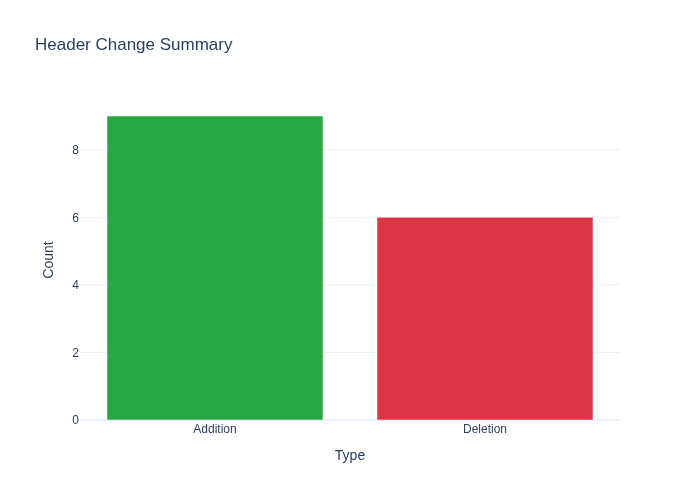
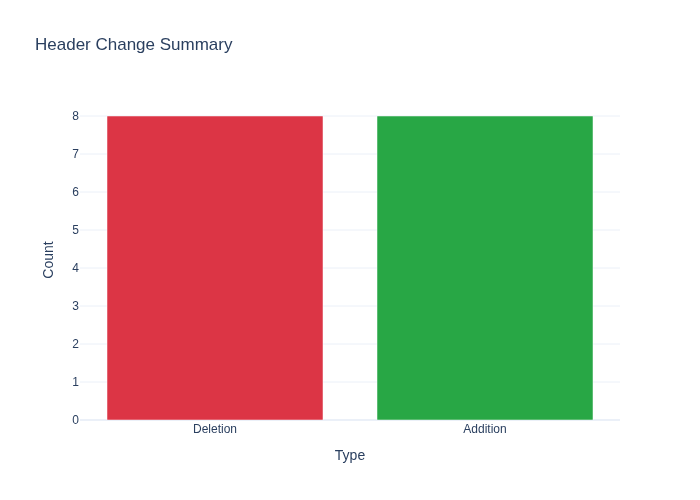
CPI responses and diff on 2025-10-30 11:44:32

diff --git a/results/diff_dashboard.html b/results/diff_dashboard.html
@@ -52,23 +52,40 @@ footer {
 </head>
 <body>
 <h1>📊 CPI Response Comparison Dashboard</h1>
-<h2>🧩 Header Differences</h2><div class='chart'><img src='header_chart.png' width='400'/></div><table><tr><th>Type</th><th>Section</th><th>Details</th></tr><tr class='value'><td>Deletion</td><td>@@ -1,16 +1,19 @@</td><td><pre>HTTP/1.1 404 Not Found</pre></td></tr>
-<tr class='addition'><td>Addition</td><td>@@ -1,16 +1,19 @@</td><td><pre>HTTP/1.1 200 OK</pre></td></tr>
-<tr class='value'><td>Deletion</td><td>@@ -1,16 +1,19 @@</td><td><pre>content-language: en</pre></td></tr>
-<tr class='value'><td>Deletion</td><td>@@ -1,16 +1,19 @@</td><td><pre>content-length: 431</pre></td></tr>
-<tr class='value'><td>Deletion</td><td>@@ -1,16 +1,19 @@</td><td><pre>content-type: text/html;charset=utf-8</pre></td></tr>
-<tr class='addition'><td>Addition</td><td>@@ -1,16 +1,19 @@</td><td><pre>content: JSON</pre></td></tr>
-<tr class='addition'><td>Addition</td><td>@@ -1,16 +1,19 @@</td><td><pre>sap_messageprocessinglogid: AGkDI_mlh7ShiZqvBjMHFFrvdiQl</pre></td></tr>
-<tr class='addition'><td>Addition</td><td>@@ -1,16 +1,19 @@</td><td><pre>sap_mplcorrelationid: AGkDI_lvplauKOzknG59KTm-F6Y9</pre></td></tr>
-<tr class='addition'><td>Addition</td><td>@@ -1,16 +1,19 @@</td><td><pre>sap_pregeneratedmplid: AGkDI_mY9qZmPVLRjRfidjRm3K-8</pre></td></tr>
-<tr class='addition'><td>Addition</td><td>@@ -1,16 +1,19 @@</td><td><pre>testheader: SecondiFlow</pre></td></tr>
-<tr class='value'><td>Deletion</td><td>@@ -1,16 +1,19 @@</td><td><pre>x-correlationid: df11ef11-f20e-45d9-4a5b-b8cf0640f32b</pre></td></tr>
-<tr class='addition'><td>Addition</td><td>@@ -1,16 +1,19 @@</td><td><pre>x-correlationid: f256a1f5-bd8b-4505-5b38-f651398fbccc</pre></td></tr>
-<tr class='value'><td>Deletion</td><td>@@ -1,16 +1,19 @@</td><td><pre>x-vcap-request-id: df11ef11-f20e-45d9-4a5b-b8cf0640f32b</pre></td></tr>
-<tr class='addition'><td>Addition</td><td>@@ -1,16 +1,19 @@</td><td><pre>x-vcap-request-id: f256a1f5-bd8b-4505-5b38-f651398fbccc</pre></td></tr>
-<tr class='addition'><td>Addition</td><td>@@ -1,16 +1,19 @@</td><td><pre>transfer-encoding: chunked</pre></td></tr>
-</table><h2>💾 Body Differences</h2><div class='chart'><img src='body_chart.png' width='400'/></div><table><tr><th>Type</th><th>Section</th><th>Details</th></tr><tr class='value'><td>Deletion</td><td>@@ -1 +1 @@</td><td><pre><!doctype html><html lang="en"><head><title>HTTP Status 404 – Not Found</title><style type="text/css">body {font-family:Tahoma,Arial,sans-serif;} h1, h2, h3, b {color:white;background-color:#525D76;} h1 {font-size:22px;} h2 {font-size:16px;} h3 {font-size:14px;} p {font-size:12px;} a {color:black;} .line {height:1px;background-color:#525D76;border:none;}</style></head><body><h1>HTTP Status 404 – Not Found</h1></body></html></pre></td></tr>
-<tr class='addition'><td>Addition</td><td>@@ -1 +1 @@</td><td><pre>{"ns1:ZSD_BAPI_SALESORDER_SIMULATE":{"C_ORDER_ITEMS_IN":{"item":{"CUSTOM_ITEM_ID":"0a99O000000iezRQAQ","PO_ITM_NO":"30","MATERIAL":"230951","BATCH":"102530","REASON_REJ":"Order is Rejected due to customer being blocked","BILL_DATE":"20251030140817","PLANT":"Santa Monica","STORE_LOC":"Basel, Switzerland","TARGET_QTY":"2000","REQ_QTY":"2000","SALES_UNIT":"IGB","ITEM_CATEG":"Fertilizers","SHORT_TEXT":"Order to be placed once customer is unblocked","REQ_DATE":"2025-10-30"},"item":{"CUSTOM_ITEM_ID":"0a99O000000if13QAA","PO_ITM_NO":"30","MATERIAL":"230952","BATCH":"102530","REASON_REJ":"Order is Rejected due to customer being blocked","BILL_DATE":"20251030140817","PLANT":"Santa Monica","STORE_LOC":"Basel, Switzerland","TARGET_QTY":"3000","REQ_QTY":"3000","SALES_UNIT":"IGB","ITEM_CATEG":"Fertilizers","SHORT_TEXT":"Order to be placed once customer is unblocked","REQ_DATE":"2025-10-30"}},"C_ORDER_PARTNERS":{"item":{"PARTN_ROLE":"AG","PARTN_NUMB":"4717357","COUNTRY":"Poland","POSTL_CODE":"PO:411789","CITY":"Pune(IN)","TELEPHONE":"0124-24356823","LANGU":"EN","ADDR_TYPE":"Commercial"},"item":{"PARTN_ROLE":"TEJ","PARTN_NUMB":"4717357","COUNTRY":"Poland","POSTL_CODE":"PO:411789","CITY":"Pune(IN)","TELEPHONE":"0124-24356823","LANGU":"EN","ADDR_TYPE":"Commercial"}},"I_CUSTOM_HEADER_IN":{"CUSTOM_HEADER_ID":"0a69O000000F3yTQAS"},"I_EXTENSION_IN":{"TAXK1":"1"},"I_ORDER_HEADER_IN":{"DOC_NUMBER":"20251030","DOC_TYPE":"ZDPP","DISTR_CHAN":"02","DIVISION":"02","PURCH_NO":"UK Cart","PMNTTRMS":"0600","CD_TYPE1":"","CD_VALUE1":"0","CD_TYPE2":"ZDR3","CD_VALUE2":"0","CD_CU_ISO2":""}}}</pre></td></tr>
+<h2>🧩 Header Differences</h2><div class='chart'><img src='header_chart.png' width='400'/></div><table><tr><th>Type</th><th>Section</th><th>Details</th></tr><tr class='value'><td>Deletion</td><td>@@ -1,18 +1,18 @@</td><td><pre>content: Text</pre></td></tr>
+<tr class='value'><td>Deletion</td><td>@@ -1,18 +1,18 @@</td><td><pre>date: Thu, 30 Oct 2025 11:44:16 GMT</pre></td></tr>
+<tr class='addition'><td>Addition</td><td>@@ -1,18 +1,18 @@</td><td><pre>content: JSON</pre></td></tr>
+<tr class='addition'><td>Addition</td><td>@@ -1,18 +1,18 @@</td><td><pre>date: Thu, 30 Oct 2025 11:44:17 GMT</pre></td></tr>
+<tr class='value'><td>Deletion</td><td>@@ -1,18 +1,18 @@</td><td><pre>sap_messageprocessinglogid: AGkDT5BYTa1YI5hpqHv6k5qQ4rRr</pre></td></tr>
+<tr class='value'><td>Deletion</td><td>@@ -1,18 +1,18 @@</td><td><pre>sap_mplcorrelationid: AGkDT5CYrX1UncDqkQy4fwh12s0F</pre></td></tr>
+<tr class='value'><td>Deletion</td><td>@@ -1,18 +1,18 @@</td><td><pre>sap_pregeneratedmplid: AGkDT5AoCapRQBwzuUv3lS2MKBuY</pre></td></tr>
+<tr class='addition'><td>Addition</td><td>@@ -1,18 +1,18 @@</td><td><pre>sap_messageprocessinglogid: AGkDT5E2lWHVwVeCp_vqHR6V60rY</pre></td></tr>
+<tr class='addition'><td>Addition</td><td>@@ -1,18 +1,18 @@</td><td><pre>sap_mplcorrelationid: AGkDT5Fh-e3JkJDwD03sxS2vsN0f</pre></td></tr>
+<tr class='addition'><td>Addition</td><td>@@ -1,18 +1,18 @@</td><td><pre>sap_pregeneratedmplid: AGkDT5G6Ycl0PbaOrkGM9efzmzIf</pre></td></tr>
+<tr class='value'><td>Deletion</td><td>@@ -1,18 +1,18 @@</td><td><pre>testheader: FirstiFlow</pre></td></tr>
+<tr class='addition'><td>Addition</td><td>@@ -1,18 +1,18 @@</td><td><pre>testheader: SecondiFlow</pre></td></tr>
+<tr class='value'><td>Deletion</td><td>@@ -1,18 +1,18 @@</td><td><pre>x-correlationid: e9b7dab0-3d66-47b1-41e9-32d1d6e781d5</pre></td></tr>
+<tr class='addition'><td>Addition</td><td>@@ -1,18 +1,18 @@</td><td><pre>x-correlationid: 78d8681e-5261-4f81-56fd-cf06ff914b9a</pre></td></tr>
+<tr class='value'><td>Deletion</td><td>@@ -1,18 +1,18 @@</td><td><pre>x-vcap-request-id: e9b7dab0-3d66-47b1-41e9-32d1d6e781d5</pre></td></tr>
+<tr class='addition'><td>Addition</td><td>@@ -1,18 +1,18 @@</td><td><pre>x-vcap-request-id: 78d8681e-5261-4f81-56fd-cf06ff914b9a</pre></td></tr>
+</table><h2>💾 Body Differences</h2><div class='chart'><img src='body_chart.png' width='400'/></div><table><tr><th>Type</th><th>Section</th><th>Details</th></tr><tr class='addition'><td>Dictionary Item Added</td><td>root['ns1:ZSD_BAPI_SALESORDER_SIMULATE']['C_ORDER_ITEMS_IN']['item']['PO_ITM_NO']</td><td><pre></pre></td></tr>
+<tr class='addition'><td>Dictionary Item Added</td><td>root['ns1:ZSD_BAPI_SALESORDER_SIMULATE']['C_ORDER_ITEMS_IN']['item']['BATCH']</td><td><pre></pre></td></tr>
+<tr class='addition'><td>Dictionary Item Added</td><td>root['ns1:ZSD_BAPI_SALESORDER_SIMULATE']['C_ORDER_ITEMS_IN']['item']['REASON_REJ']</td><td><pre></pre></td></tr>
+<tr class='addition'><td>Dictionary Item Added</td><td>root['ns1:ZSD_BAPI_SALESORDER_SIMULATE']['C_ORDER_ITEMS_IN']['item']['BILL_DATE']</td><td><pre></pre></td></tr>
+<tr class='addition'><td>Dictionary Item Added</td><td>root['ns1:ZSD_BAPI_SALESORDER_SIMULATE']['C_ORDER_ITEMS_IN']['item']['PLANT']</td><td><pre></pre></td></tr>
+<tr class='addition'><td>Dictionary Item Added</td><td>root['ns1:ZSD_BAPI_SALESORDER_SIMULATE']['C_ORDER_ITEMS_IN']['item']['STORE_LOC']</td><td><pre></pre></td></tr>
+<tr class='addition'><td>Dictionary Item Added</td><td>root['ns1:ZSD_BAPI_SALESORDER_SIMULATE']['C_ORDER_ITEMS_IN']['item']['ITEM_CATEG']</td><td><pre></pre></td></tr>
+<tr class='addition'><td>Dictionary Item Added</td><td>root['ns1:ZSD_BAPI_SALESORDER_SIMULATE']['C_ORDER_ITEMS_IN']['item']['SHORT_TEXT']</td><td><pre></pre></td></tr>
+<tr class='addition'><td>Dictionary Item Added</td><td>root['ns1:ZSD_BAPI_SALESORDER_SIMULATE']['C_ORDER_ITEMS_IN']['item']['REQ_DATE']</td><td><pre></pre></td></tr>
+<tr class='addition'><td>Dictionary Item Added</td><td>root['ns1:ZSD_BAPI_SALESORDER_SIMULATE']['C_ORDER_PARTNERS']['item']['POSTL_CODE']</td><td><pre></pre></td></tr>
+<tr class='addition'><td>Dictionary Item Added</td><td>root['ns1:ZSD_BAPI_SALESORDER_SIMULATE']['C_ORDER_PARTNERS']['item']['TELEPHONE']</td><td><pre></pre></td></tr>
+<tr class='addition'><td>Dictionary Item Added</td><td>root['ns1:ZSD_BAPI_SALESORDER_SIMULATE']['C_ORDER_PARTNERS']['item']['LANGU']</td><td><pre></pre></td></tr>
+<tr class='addition'><td>Dictionary Item Added</td><td>root['ns1:ZSD_BAPI_SALESORDER_SIMULATE']['C_ORDER_PARTNERS']['item']['ADDR_TYPE']</td><td><pre></pre></td></tr>
+<tr class='addition'><td>Dictionary Item Added</td><td>root['ns1:ZSD_BAPI_SALESORDER_SIMULATE']['I_ORDER_HEADER_IN']['DOC_NUMBER']</td><td><pre></pre></td></tr>
+<tr class='value'><td>Dictionary Item Removed</td><td>root['ns1:ZSD_BAPI_SALESORDER_SIMULATE']['I_ORDER_HEADER_IN']['SALES_ORG']</td><td><pre></pre></td></tr>
+<tr class='value'><td>Dictionary Item Removed</td><td>root['ns1:ZSD_BAPI_SALESORDER_SIMULATE']['I_ORDER_HEADER_IN']['CD_CU_ISO1']</td><td><pre></pre></td></tr>
+<tr class='value'><td>Values Changed</td><td>root['ns1:ZSD_BAPI_SALESORDER_SIMULATE']['C_ORDER_PARTNERS']['item']['COUNTRY']</td><td><pre></pre></td></tr>
+<tr class='value'><td>Values Changed</td><td>root['ns1:ZSD_BAPI_SALESORDER_SIMULATE']['C_ORDER_PARTNERS']['item']['CITY']</td><td><pre></pre></td></tr>
 </table>
 <footer>
 <hr>
